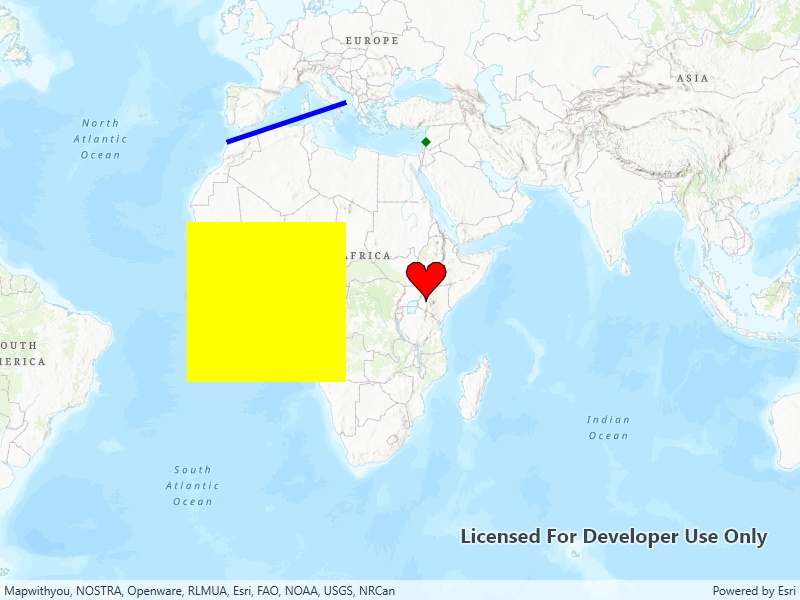
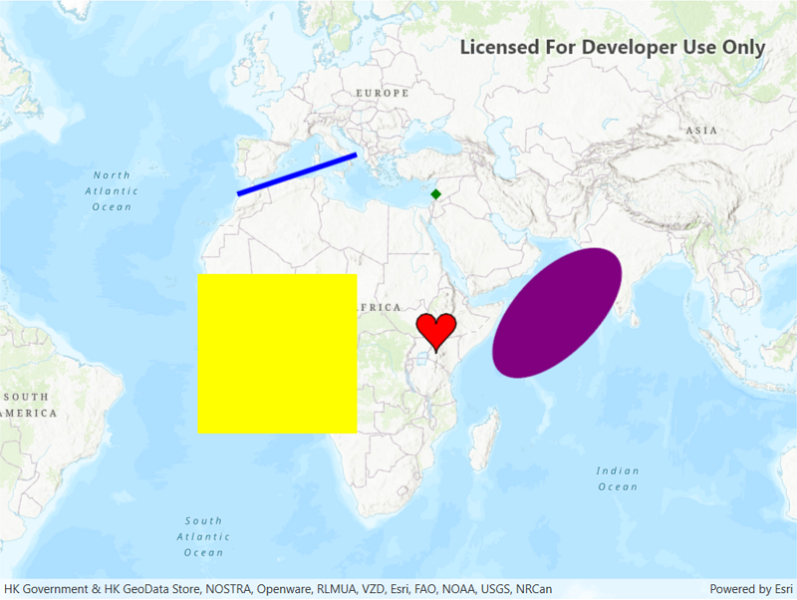
Made changes to WPF AddGraphicRenderer

diff --git a/src/WPF/ArcGISRuntime.WPF.Viewer/Samples/GraphicsOverlay/AddGraphicsRenderer/AddGraphicsRenderer.xaml.cs b/src/WPF/ArcGISRuntime.WPF.Viewer/Samples/GraphicsOverlay/AddGraphicsRenderer/AddGraphicsRenderer.xaml.cs
@@ -21,7 +21,7 @@ namespace ArcGISRuntime.WPF.Samples.AddGraphicsRenderer
         category: "GraphicsOverlay",
         description: "A renderer allows you to change the style of all graphics in a graphics overlay by referencing a single symbol style. A renderer will only affect graphics that do not specify their own symbol style.",
         instructions: "Pan and zoom on the map to view graphics for points, lines, and polygons (including polygons with curve segments) which are stylized using renderers.",
-        tags: new[] { "arc", "bezier", "curve", "display", "graphics", "marker", "overlay", "renderer", "segment", "symbol", "true curve", "Featured" })]
+        tags: new[] { "arc", "bezier", "curve", "display", "ellipsis", "graphics", "marker", "overlay", "renderer", "segment", "symbol", "true curve", "Featured" })]
     public partial class AddGraphicsRenderer
     {
         public AddGraphicsRenderer()
@@ -42,7 +42,27 @@ namespace ArcGISRuntime.WPF.Samples.AddGraphicsRenderer
                 MakeLineGraphicsOverlay(),
                 MakeSquareGraphicsOverlay(),
                 MakeCurvedGraphicsOverlay(),
+                MakeEllipseGraphicsOverlay()
             });
+        }
+
+        private GraphicsOverlay MakeEllipseGraphicsOverlay()
+        {
+            // Create a simple fill symbol with outline.
+            SimpleLineSymbol curvedLineSymbol = new SimpleLineSymbol(SimpleLineSymbolStyle.Solid, Color.Purple, 1);
+            SimpleFillSymbol curvedFillSymbol = new SimpleFillSymbol(SimpleFillSymbolStyle.Solid, Color.Purple, curvedLineSymbol);
+
+            // Create a graphics overlay for the polygons with curve segments.
+            GraphicsOverlay ellipseGraphicsOverlay = new GraphicsOverlay();
+
+            // Create and assign a simple renderer to the graphics overlay.
+            ellipseGraphicsOverlay.Renderer = new SimpleRenderer(curvedFillSymbol);
+
+            //Makes ellipse graphic
+            Polygon ellipse = MakeEllipseGeometry();
+            Graphic ellipseGraphic = new Graphic(ellipse);
+            ellipseGraphicsOverlay.Graphics.Add(ellipseGraphic);
+            return ellipseGraphicsOverlay;
         }
 
         private GraphicsOverlay MakePointGraphicsOverlay()
@@ -177,6 +197,26 @@ namespace ArcGISRuntime.WPF.Samples.AddGraphicsRenderer
             PolygonBuilder builder = new PolygonBuilder(spatialReference);
             builder.AddPart(newPart);
             return builder.ToGeometry();
+        }
+
+        private Polygon MakeEllipseGeometry()
+        {
+            // create parameters and set all the parameters
+            GeodesicEllipseParameters parameters = new GeodesicEllipseParameters();
+            parameters.Center = new MapPoint(70e5, 10e5, SpatialReferences.WebMercator);
+            parameters.GeometryType = GeometryType.Polygon;
+            parameters.SemiAxis1Length = 1000;
+            parameters.SemiAxis2Length = 2000;
+            parameters.AxisDirection = 45;
+            parameters.MaxPointCount = 100;
+            //If no angular unit then it is assume to be degrees. Use AngularUnits to change units.
+            parameters.AngularUnit = AngularUnits.Degrees;
+            //If no linear unit set, we will get meters. Use LinearUnits to change units.
+            parameters.LinearUnit = LinearUnits.Kilometers;
+            parameters.MaxSegmentLength = 20;
+
+            Polygon ellipsePoly = (Polygon)GeometryEngine.EllipseGeodesic(parameters);
+            return ellipsePoly;
         }
     }
 }
